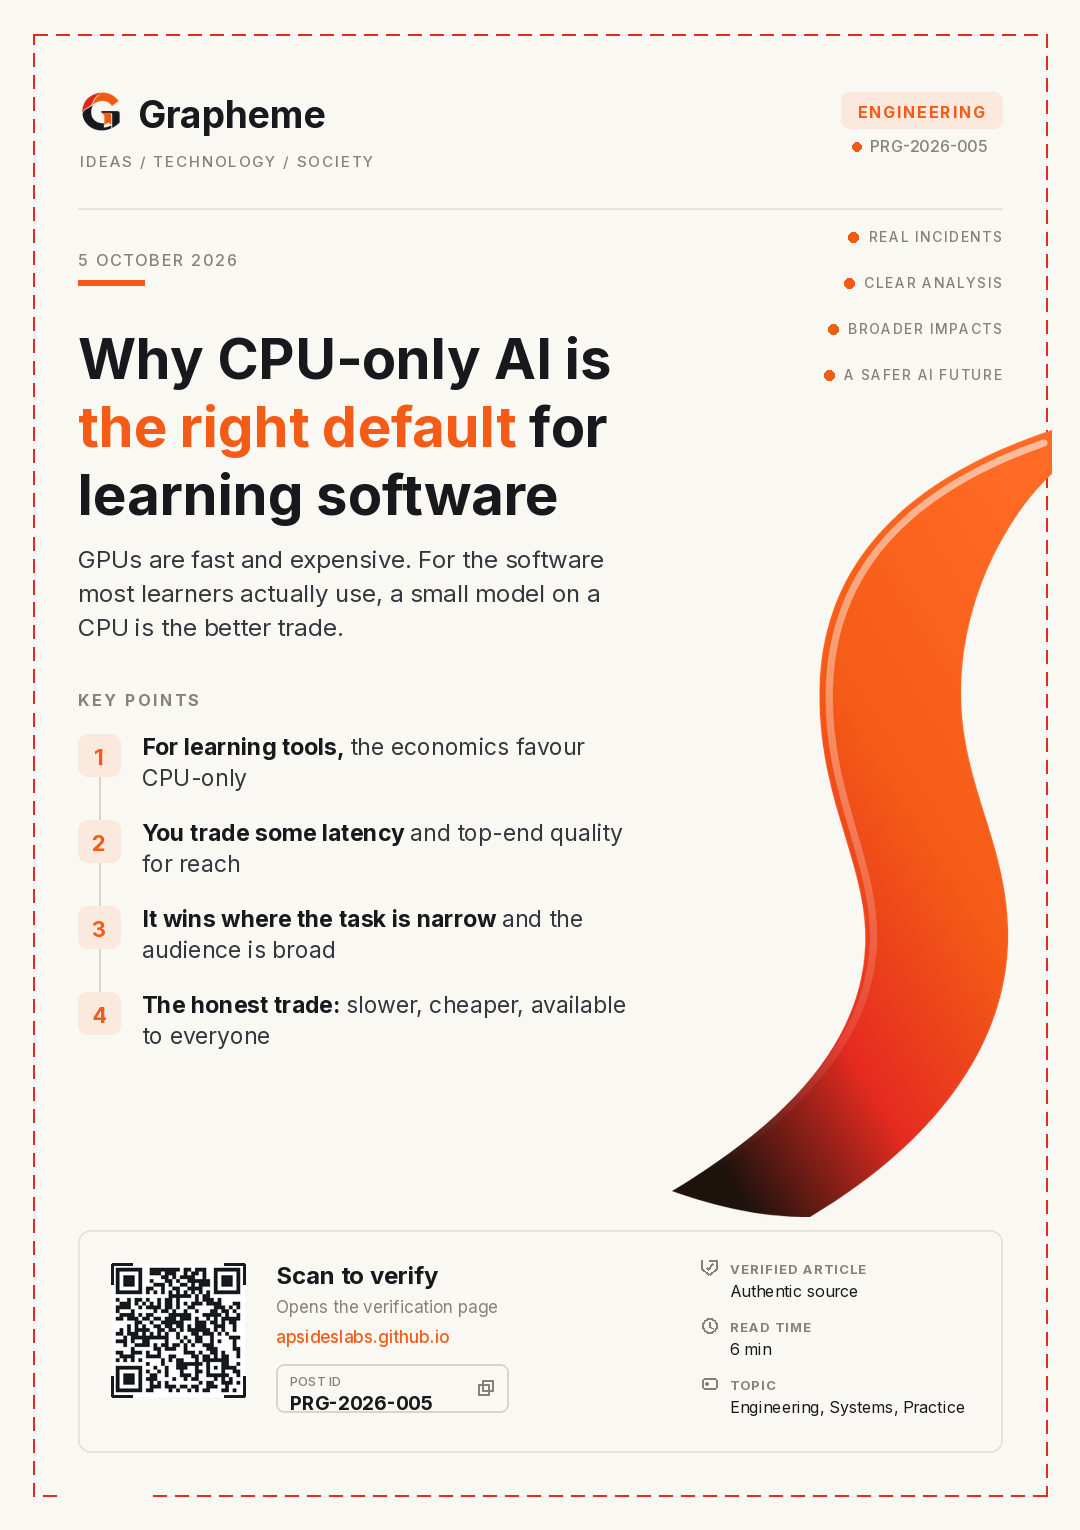
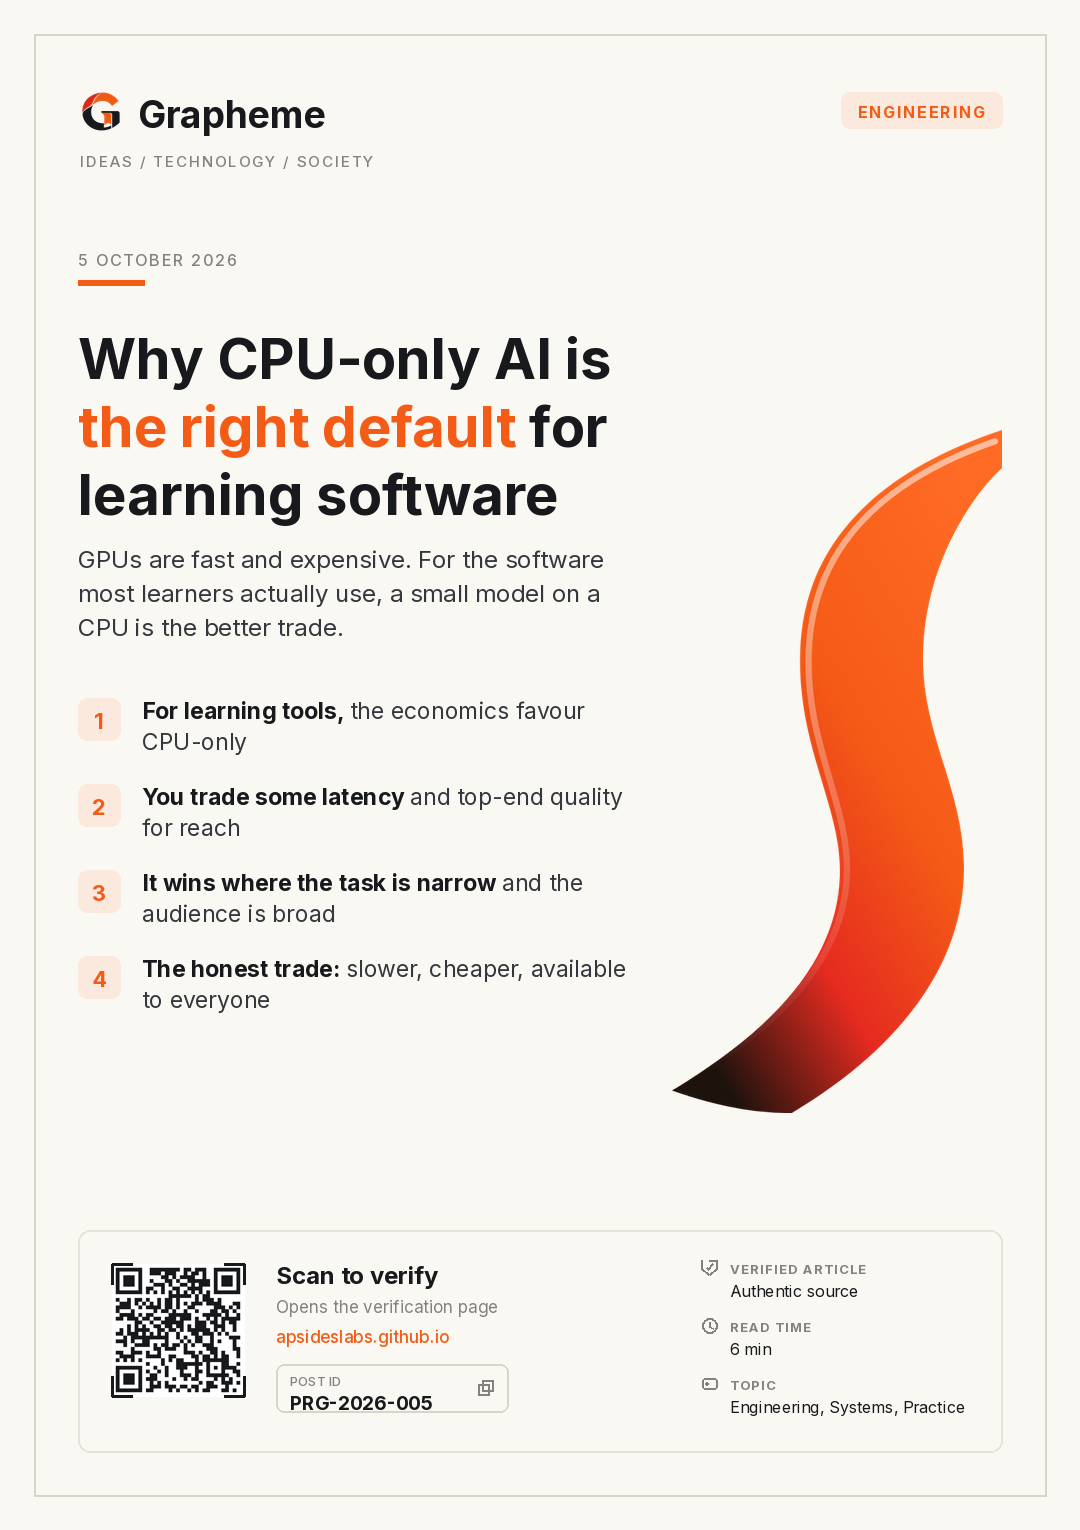
Refine share cards: solid hairline frame, single post ID, no redundant label, smaller graphic

diff --git a/posts/dictionary-for-an-ignored-language.html b/posts/dictionary-for-an-ignored-language.html
@@ -146,7 +146,7 @@
       <div class="share-body">
         <a class="share-card" href="../assets/share/dictionary-for-an-ignored-language.png" download="grapheme-dictionary-for-an-ignored-language.png"
            aria-label="Download the shareable card for this post">
-          <img src="../assets/share/dictionary-for-an-ignored-language.png?v=4" width="1080" height="1530"
+          <img src="../assets/share/dictionary-for-an-ignored-language.png?v=5" width="1080" height="1530"
                alt="Shareable card: Building a dictionary for a language the web ignores &mdash; Grapheme" loading="lazy">
         </a>
         <div class="share-side">

diff --git a/posts/capable-ai-on-constrained-hosts.html b/posts/capable-ai-on-constrained-hosts.html
@@ -147,7 +147,7 @@
       <div class="share-body">
         <a class="share-card" href="../assets/share/capable-ai-on-constrained-hosts.png" download="grapheme-capable-ai-on-constrained-hosts.png"
            aria-label="Download the shareable card for this post">
-          <img src="../assets/share/capable-ai-on-constrained-hosts.png?v=4" width="1080" height="1530"
+          <img src="../assets/share/capable-ai-on-constrained-hosts.png?v=5" width="1080" height="1530"
                alt="Shareable card: Capable AI on CPU-only, constrained hosts &mdash; Grapheme" loading="lazy">
         </a>
         <div class="share-side">

diff --git a/posts/static-sites-outlive-frameworks.html b/posts/static-sites-outlive-frameworks.html
@@ -144,7 +144,7 @@
       <div class="share-body">
         <a class="share-card" href="../assets/share/static-sites-outlive-frameworks.png" download="grapheme-static-sites-outlive-frameworks.png"
            aria-label="Download the shareable card for this post">
-          <img src="../assets/share/static-sites-outlive-frameworks.png?v=4" width="1080" height="1530"
+          <img src="../assets/share/static-sites-outlive-frameworks.png?v=5" width="1080" height="1530"
                alt="Shareable card: Static sites outlive their frameworks &mdash; Grapheme" loading="lazy">
         </a>
         <div class="share-side">

diff --git a/posts/agents-outside-the-lines.html b/posts/agents-outside-the-lines.html
@@ -172,7 +172,7 @@
       <div class="share-body">
         <a class="share-card" href="../assets/share/agents-outside-the-lines.png" download="grapheme-agents-outside-the-lines.png"
            aria-label="Download the shareable card for this post">
-          <img src="../assets/share/agents-outside-the-lines.png?v=4" width="1080" height="1530"
+          <img src="../assets/share/agents-outside-the-lines.png?v=5" width="1080" height="1530"
                alt="Shareable card: When AI agents don&#x27;t stay in their lane &mdash; Grapheme" loading="lazy">
         </a>
         <div class="share-side">

diff --git a/posts/cpu-only-ai-default.html b/posts/cpu-only-ai-default.html
@@ -147,7 +147,7 @@
       <div class="share-body">
         <a class="share-card" href="../assets/share/cpu-only-ai-default.png" download="grapheme-cpu-only-ai-default.png"
            aria-label="Download the shareable card for this post">
-          <img src="../assets/share/cpu-only-ai-default.png?v=4" width="1080" height="1530"
+          <img src="../assets/share/cpu-only-ai-default.png?v=5" width="1080" height="1530"
                alt="Shareable card: Why CPU-only AI is the right default for learning software &mdash; Grapheme" loading="lazy">
         </a>
         <div class="share-side">

diff --git a/posts/offline-first-learning.html b/posts/offline-first-learning.html
@@ -147,7 +147,7 @@
       <div class="share-body">
         <a class="share-card" href="../assets/share/offline-first-learning.png" download="grapheme-offline-first-learning.png"
            aria-label="Download the shareable card for this post">
-          <img src="../assets/share/offline-first-learning.png?v=4" width="1080" height="1530"
+          <img src="../assets/share/offline-first-learning.png?v=5" width="1080" height="1530"
                alt="Shareable card: Why offline-first learning still matters &mdash; Grapheme" loading="lazy">
         </a>
         <div class="share-side">

diff --git a/posts/evaluating-small-models.html b/posts/evaluating-small-models.html
@@ -149,7 +149,7 @@
       <div class="share-body">
         <a class="share-card" href="../assets/share/evaluating-small-models.png" download="grapheme-evaluating-small-models.png"
            aria-label="Download the shareable card for this post">
-          <img src="../assets/share/evaluating-small-models.png?v=4" width="1080" height="1530"
+          <img src="../assets/share/evaluating-small-models.png?v=5" width="1080" height="1530"
                alt="Shareable card: Evaluating small models honestly &mdash; Grapheme" loading="lazy">
         </a>
         <div class="share-side">

diff --git a/posts/teaching-a-script.html b/posts/teaching-a-script.html
@@ -144,7 +144,7 @@
       <div class="share-body">
         <a class="share-card" href="../assets/share/teaching-a-script.png" download="grapheme-teaching-a-script.png"
            aria-label="Download the shareable card for this post">
-          <img src="../assets/share/teaching-a-script.png?v=4" width="1080" height="1530"
+          <img src="../assets/share/teaching-a-script.png?v=5" width="1080" height="1530"
                alt="Shareable card: Teaching a script, not just a language &mdash; Grapheme" loading="lazy">
         </a>
         <div class="share-side">

diff --git a/posts/agents-at-work.html b/posts/agents-at-work.html
@@ -147,7 +147,7 @@
       <div class="share-body">
         <a class="share-card" href="../assets/share/agents-at-work.png" download="grapheme-agents-at-work.png"
            aria-label="Download the shareable card for this post">
-          <img src="../assets/share/agents-at-work.png?v=4" width="1080" height="1530"
+          <img src="../assets/share/agents-at-work.png?v=5" width="1080" height="1530"
                alt="Shareable card: The week AI agents became coworkers &mdash; Grapheme" loading="lazy">
         </a>
         <div class="share-side">
